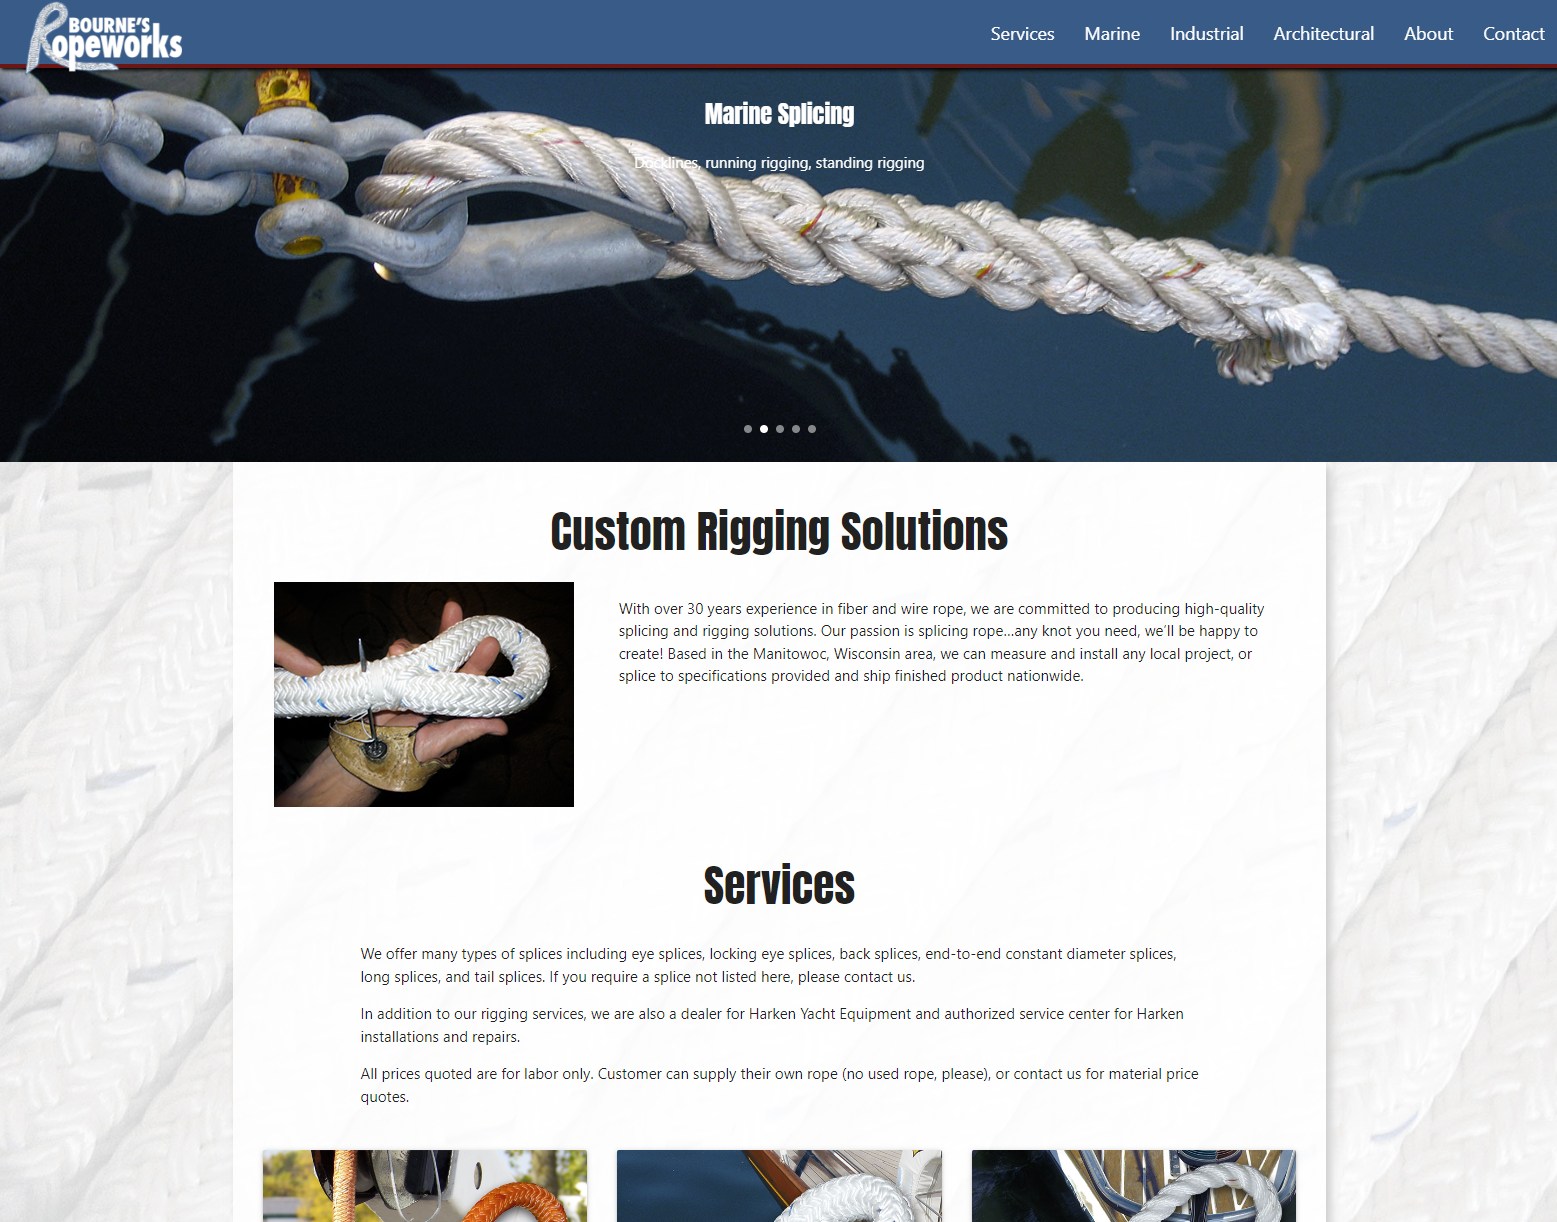
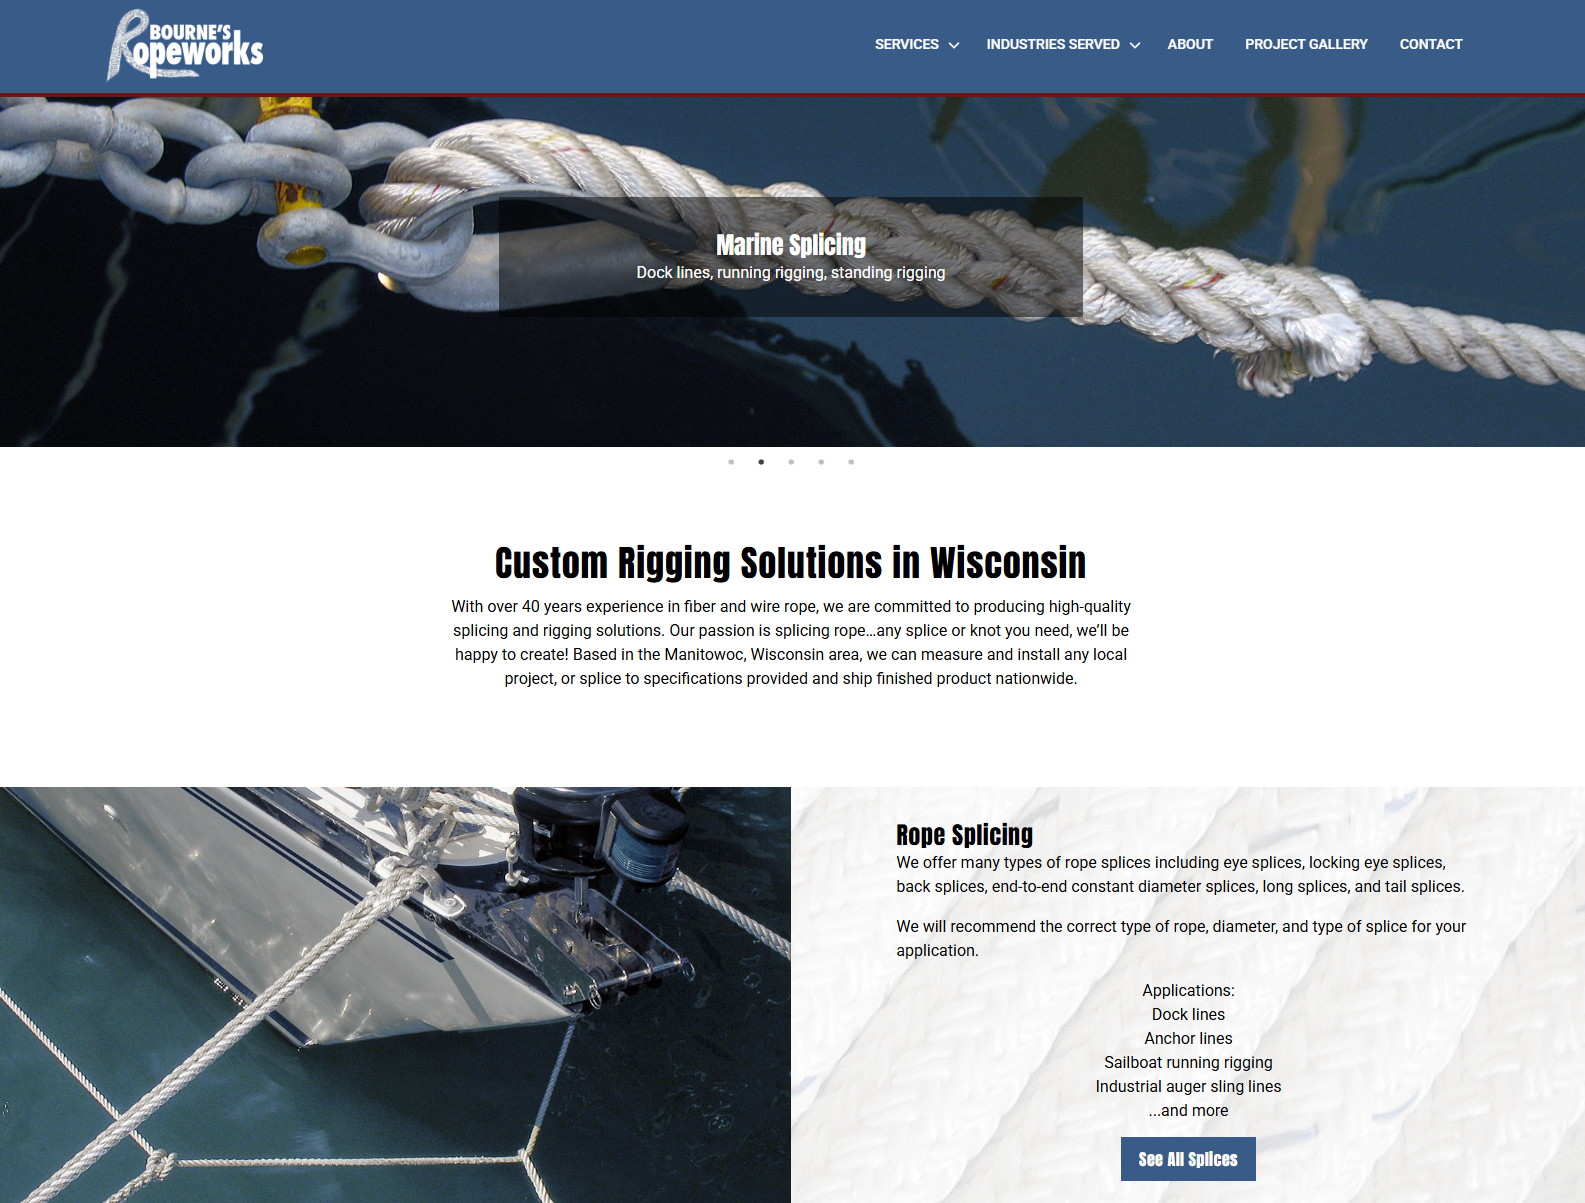
update projects

diff --git a/src/routes/projects/+page.svelte b/src/routes/projects/+page.svelte
@@ -1,89 +1,118 @@
 <script lang="ts">
-  import AlternatingSection from '../../components/AlternatingSection.svelte'
-  import Border from '../../components/Border.svelte';
-  import type { Block } from '../../types/index'
-  import shurclean from '$lib/assets/shurclean_after.png'
-  import hikerTrailer from '$lib/assets/hiker-trailer.png'
-  import braustinPortal from '$lib/assets/portal-login-screen.jpg'
-  import progressive from '$lib/assets/progressive-edge.png'
-  import ropeworks from '$lib/assets/bournes-ropeworks.png'
-  import hogebuilt from '$lib/assets/hogebuilt.png'
-  import willman from '$lib/assets/willman_after.png'
-  import spn from '$lib/assets/snowplow-news_after.png'
-  import bloapco from '$lib/assets/bloapco-after2.png'
-  import kbContractors from '$lib/assets/kb-contractors.png'
-  import argo from '$lib/assets/argo-after.png'
-  import swaphogg from '$lib/assets/swaphogg.png'
-  import qlc from '$lib/assets/qlc-labeling-after.jpg'
-  import sitetote from '$lib/assets/sitetote.jpg'
-  import natesSnow from '$lib/assets/nates-snow.jpg'
+  import AlternatingSection from "../../components/AlternatingSection.svelte";
+  import Border from "../../components/Border.svelte";
+  import type { Block } from "../../types/index";
+  import shurclean from "$lib/assets/shurclean_after.png";
+  import hikerTrailer from "$lib/assets/hiker-trailer.png";
+  import braustinPortal from "$lib/assets/portal-login-screen.jpg";
+  import progressive from "$lib/assets/progressive-edge.png";
+  import ropeworks from "$lib/assets/bournes-ropeworks.png";
+  import hogebuilt from "$lib/assets/hogebuilt.png";
+  import willman from "$lib/assets/willman_after.png";
+  import spn from "$lib/assets/snowplow-news_after.png";
+  import bloapco from "$lib/assets/bloapco-after2.png";
+  import kbContractors from "$lib/assets/kb-contractors.png";
+  import argo from "$lib/assets/argo-after.png";
+  import swaphogg from "$lib/assets/swaphogg.png";
+  import qlc from "$lib/assets/qlc-labeling-after.jpg";
+  import sitetote from "$lib/assets/sitetote.jpg";
+  import natesSnow from "$lib/assets/nates-snow.jpg";
+  import braustin from "$lib/assets/braustin.png";
 
   export const blocks: Block[] = [
     {
-      title: 'Nate\'s Snow & Ice Website',
+      title: "Bourne's Ropeworks Website",
+      bodyParagraphs: [
+        `Full site design and development including artwork, photography and content creation. Custom photo gallery with lightbox slider functionality.`,
+      ],
+      bodyList: ["NextJS", "TailwindCSS", "TypeScript"],
+      imageSrc: ropeworks,
+      imageAlt: "Bourne's Ropeworks website build",
+      projectUrl: "https://bournesropeworks.com/",
+    },
+    {
+      title: "Nate's Snow & Ice Website",
       bodyParagraphs: [
         `New WordPress website build to match provided design specifications.`,
         `Built in partnership with Smart Interactive Media`,
       ],
-      bodyList: ['WordPress', 'Divi', 'PHP',],
+      bodyList: ["WordPress", "Divi", "PHP"],
       imageSrc: natesSnow,
-      imageAlt: 'Nate\'s Snow & Ice website build',
-      projectUrl: 'https://natessnow.com/',
+      imageAlt: "Nate's Snow & Ice website build",
+      projectUrl: "https://natessnow.com/",
     },
     {
-      title: 'SiteTote Website',
+      title: "SiteTote Website",
       bodyParagraphs: [
         `New WordPress website including design, build and content creation.`,
         `Built in partnership with Smart Interactive Media`,
       ],
-      bodyList: ['WordPress', 'Divi', 'PHP',],
+      bodyList: ["WordPress", "Divi", "PHP"],
       imageSrc: sitetote,
-      imageAlt: 'SiteTote website build',
-      projectUrl: 'https://sitetote.com/',
+      imageAlt: "SiteTote website build",
+      projectUrl: "https://sitetote.com/",
     },
     {
-      title: 'QLC Labeling Website',
+      title: "Braustin Website Customizations",
+      bodyParagraphs: [
+        `Various enhancements and customizations to a WordPress site including custom plugin development, custom shop filtering and search tools, and integration with backend services.`,
+      ],
+      bodyList: ["WordPress", "Elementor", "WooCommerce", "ACF", "PHP", "JavaScript", "NodeJS", "CSS"],
+      imageSrc: braustin,
+      imageAlt: "Braustin website enhancements",
+      projectUrl: "https://www.braustin.com/shop/",
+    },  
+    {
+      title: "QLC Labeling Website",
       bodyParagraphs: [
         `Complete website redesign and rebuild for improved usability, organization, and searchable product offering. Custom MegaMenu.`,
         `Built in partnership with Smart Interactive Media`,
       ],
-      bodyList: ['WordPress', 'Divi', 'WooCommerce', 'ACF', 'PHP', 'JavaScript', 'CSS'],
+      bodyList: [
+        "WordPress",
+        "Divi",
+        "WooCommerce",
+        "ACF",
+        "PHP",
+        "JavaScript",
+        "CSS",
+      ],
       imageSrc: qlc,
-      imageAlt: 'QLC Labeling redesign and build',
-      projectUrl: 'https://www.qlc-labeling.com/',
+      imageAlt: "QLC Labeling redesign and build",
+      projectUrl: "https://www.qlc-labeling.com/",
     },
     {
-      title: 'SwapHogg Website',
+      title: "SwapHogg Website",
       bodyParagraphs: [
         `New WordPress website including design, build and content creation. Integrates with existing MetaLocator dealer locator.`,
         `Built in partnership with Smart Interactive Media`,
       ],
-      bodyList: ['WordPress', 'Divi', 'WooCommerce', 'PHP'],
+      bodyList: ["WordPress", "Divi", "WooCommerce", "PHP"],
       imageSrc: swaphogg,
-      imageAlt: 'Argo Industries redesign and build',
-      projectUrl: 'https://swaphogg.com/',
+      imageAlt: "Argo Industries redesign and build",
+      projectUrl: "https://swaphogg.com/",
     },
     {
-      title: 'Argo Industries Website',
+      title: "Argo Industries Website",
       bodyParagraphs: [
         `Complete website redesign and rebuild to better align with marketing goals.`,
         `Built in partnership with Chameleon Communications`,
       ],
-      bodyList: ['WordPress', 'Divi', 'PHP'],
+      bodyList: ["WordPress", "Divi", "PHP"],
       imageSrc: argo,
-      imageAlt: 'Argo Industries redesign and build',
-      projectUrl: 'https://argoind.com/',
+      imageAlt: "Argo Industries redesign and build",
+      projectUrl: "https://argoind.com/",
     },
     {
-      title: 'KB Contractors Website',
+      title: "KB Contractors Website",
       bodyParagraphs: [
         `Complete website redesign and replatform from SquareSpace to WordPress. Includes a custom Project post type for the project gallery.`,
         `Built in partnership with InContext, Inc.`,
       ],
-      bodyList: ['WordPress', 'Beaver Builder', ],
+      bodyList: ["WordPress", "Beaver Builder"],
       imageSrc: kbContractors,
-      imageAlt: 'KB Contractors redesign and build',
-      projectUrl: 'https://kbcontractors.com/',
+      imageAlt: "KB Contractors redesign and build",
+      projectUrl: "https://kbcontractors.com/",
     },
     // {
     //   title: 'BloApCo Website',
@@ -97,81 +126,100 @@
     //   projectUrl: 'https://www.bloapco.com',
     // },
     {
-      title: 'Willman Industries Website',
+      title: "Willman Industries Website",
       bodyParagraphs: [
         `Redesign of a WordPress site, changing to a modern theme compatible with current versions of WordPress and PHP.`,
         `Built in partnership with Smart Interactive Media.`,
       ],
-      bodyList: ['WordPress', 'Divi'],
+      bodyList: ["WordPress", "Divi"],
       imageSrc: willman,
-      imageAlt: 'Willman Industries website redesign and build',
-      projectUrl: 'https://willmanind.com',
+      imageAlt: "Willman Industries website redesign and build",
+      projectUrl: "https://willmanind.com",
     },
     {
-      title: 'ShurClean Website',
+      title: "ShurClean Website",
       bodyParagraphs: [
-        `Full visual redesign and rebuild of a non-responsive PHP site. New mobile responsive site built in NextJS with TypeScript and Tailwind CSS.`, 
+        `Full visual redesign and rebuild of a non-responsive PHP site. New mobile responsive site built in NextJS with TypeScript and Tailwind CSS.`,
         `Dynamic pages are generated from MarkDown files to simplify making content edits.`,
         `Built in partnership with Smart Interactive Media.`,
       ],
-      bodyList: ['NextJS', 'TypeScript', 'TailwindCSS'],
+      bodyList: ["NextJS", "TypeScript", "TailwindCSS"],
       imageSrc: shurclean,
-      imageAlt: 'ShurClean website redesign and build',
-      projectUrl: 'https://shurcleanwi.com',
+      imageAlt: "ShurClean website redesign and build",
+      projectUrl: "https://shurcleanwi.com",
     },
     {
-      title: 'Hiker Trailer Configurator',
+      title: "Hiker Trailer Configurator",
       bodyParagraphs: [
         `A custom WordPress plugin with a NextJS frontend that integrates with WooCommerce and Advanced Custom Fields (ACF) to enable complex option availability combinations and generate a user-friendly UI that allows customers to save and order custom trailers. UI available in light mode or dark mode based on user selection.`,
         `Generates dynamic PDFs for purchase orders and internal build process routing.`,
         `Built in partnership with Smart Interactive Media.`,
-        ],
-      bodyList: ['PHP', 'WordPress', 'WooCommerce', 'ACF', 'React', 'Vite', 'DaisyUI', 'TypeScript', 'PDFMake'],
+      ],
+      bodyList: [
+        "PHP",
+        "WordPress",
+        "WooCommerce",
+        "ACF",
+        "React",
+        "Vite",
+        "DaisyUI",
+        "TypeScript",
+        "PDFMake",
+      ],
       imageSrc: hikerTrailer,
-      imageAlt: 'Hiker Trailer custom trailer configurator',
-      projectUrl: 'https://hikertrailers.com/hikertrailer-configurator/',
+      imageAlt: "Hiker Trailer custom trailer configurator",
+      projectUrl: "https://hikertrailers.com/hikertrailer-configurator/",
     },
     {
-      title: 'Snow Plow News Website Customizations',
+      title: "Snow Plow News Website Customizations",
       bodyParagraphs: [
-        `A variety of custom functionality integrated with a WordPress site. A custom blog module allows advertising to be inserted in the post archives. Custom search and filter tools for dealers, suppliers, and snowplow comparisons.`,
+        `A variety of custom functionality integrated with a WordPress site. A custom blog module allows advertising to be inserted in the post archives. Custom search and filter tools for dealers, suppliers, and snowplow comparisons and a custom dealer locator integrated with Google Maps.`,
         `Built in partnership with Smart Interactive Media.`,
-        ],
-      bodyList: ['PHP', 'WordPress', 'Divi', 'ACF', 'CSS', 'JavaScript'],
+      ],
+      bodyList: ["PHP", "WordPress", "Divi", "ACF", "CSS", "JavaScript", "Google Maps API"],
       imageSrc: spn,
-      imageAlt: 'Snow Plow News website customizations',
-      projectUrl: 'https://snowplownews.com/',
+      imageAlt: "Snow Plow News website customizations",
+      projectUrl: "https://snowplownews.com/",
     },
     {
-      title: 'Hogebuilt Fender Kit Builder',
+      title: "Hogebuilt Fender Kit Builder",
       bodyParagraphs: [
         `A custom WordPress plugin with a simple UI to determine which aftermarket fender components fit a semi trailer based on trailer specifications. Integrates with WordPress, WooCommerce and ACF filter possible options based on each previous selection. Built in partnership with Smart Interactive Media.`,
       ],
-      bodyList: ['WordPress', 'WooCommerce', 'ACF', 'PHP', 'CSS'],
+      bodyList: ["WordPress", "WooCommerce", "ACF", "PHP", "CSS"],
       imageSrc: hogebuilt,
-      imageAlt: 'Hogebuilt semi trailer custom fender kit builder',
-      projectUrl: 'https://www.hogebuilt.com/product-category/half-tandem-fenders/custom-mounting-options-half-tandem-fenders/'
+      imageAlt: "Hogebuilt semi trailer custom fender kit builder",
+      projectUrl:
+        "https://www.hogebuilt.com/product-category/half-tandem-fenders/custom-mounting-options-half-tandem-fenders/",
     },
     {
-      title: 'Progressive Edge Website',
+      title: "Progressive Edge Website",
       bodyParagraphs: [
         `Full website redesign and build using WordPress and Divi page builder. Built in partnership with Smart Interactive Media.`,
       ],
-      bodyList: ['WordPress', 'Divi', 'PHP', 'CSS'],
+      bodyList: ["WordPress", "Divi", "PHP", "CSS"],
       imageSrc: progressive,
-      imageAlt: 'Progressive Edge website',
-      projectUrl: 'https://progressive-edge.com'
+      imageAlt: "Progressive Edge website",
+      projectUrl: "https://progressive-edge.com",
     },
     {
-      title: 'Braustin Homes Internal Sales Portal',
+      title: "Braustin Homes Internal Sales Portal",
       bodyParagraphs: [
         `Frontend rebuild to client supplied designs, replatform from React to NextJS to make use of Next routing. Full reusable component library built with Styled Components. Built a dynamic document service for generate sales paperwork.`,
         `Simplifies and reduces data entry with an user-friendly interface for inputing all customer selections.`,
         `Generates dynamic PDFs for purchase orders and autofills required government forms from Mongo database.`,
-        ],
-      bodyList: ['NextJS', 'NodeJS', 'MongoDB', 'Styled Components', 'SCSS', 'PDFLib', 'Handlebars'],
+      ],
+      bodyList: [
+        "NextJS",
+        "NodeJS",
+        "MongoDB",
+        "Styled Components",
+        "SCSS",
+        "PDFLib",
+        "Handlebars",
+      ],
       imageSrc: braustinPortal,
-      imageAlt: 'Braustin Homes private sales portal'
+      imageAlt: "Braustin Homes private sales portal",
     },
     // {
     //   title: `Bourne's Ropeworks`,
@@ -182,17 +230,17 @@
     //   imageSrc: ropeworks,
     //   imageAlt: `Bourne's Ropeworks website`,
     //   projectUrl: `https://bournesropeworks.com/`,
-    //   codeUrl: `https://github.com/bourneidBH/bournes-ropeworks`, 
+    //   codeUrl: `https://github.com/bourneidBH/bournes-ropeworks`,
     // },
-  ]
+  ];
 </script>
 
 <div class="max-w-prose mx-auto my-6">
   <h1 class="text-center text-3xl">Recent Projects</h1>
 </div>
-<Border direction='left' />
+<Border direction="left" />
 {#each blocks as block, i}
-  <AlternatingSection 
+  <AlternatingSection
     title={block.title}
     bodyParagraphs={block?.bodyParagraphs}
     bodyList={block?.bodyList}
